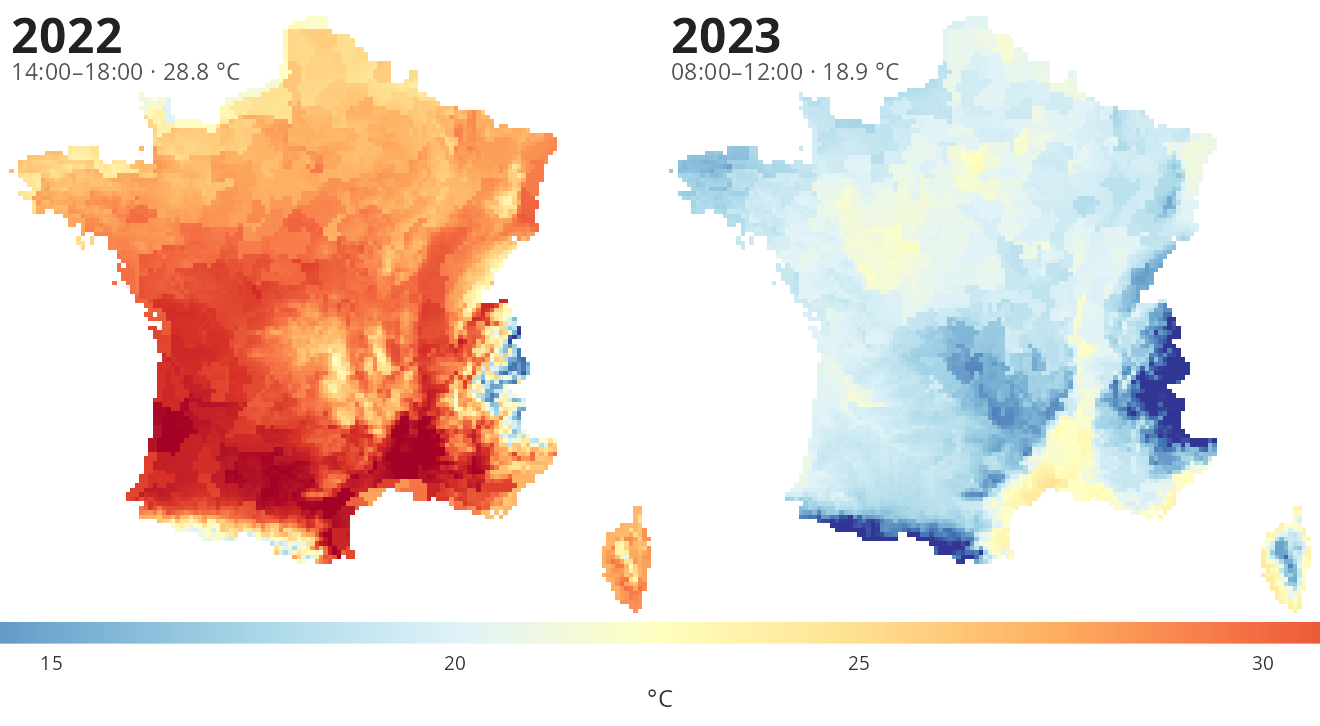
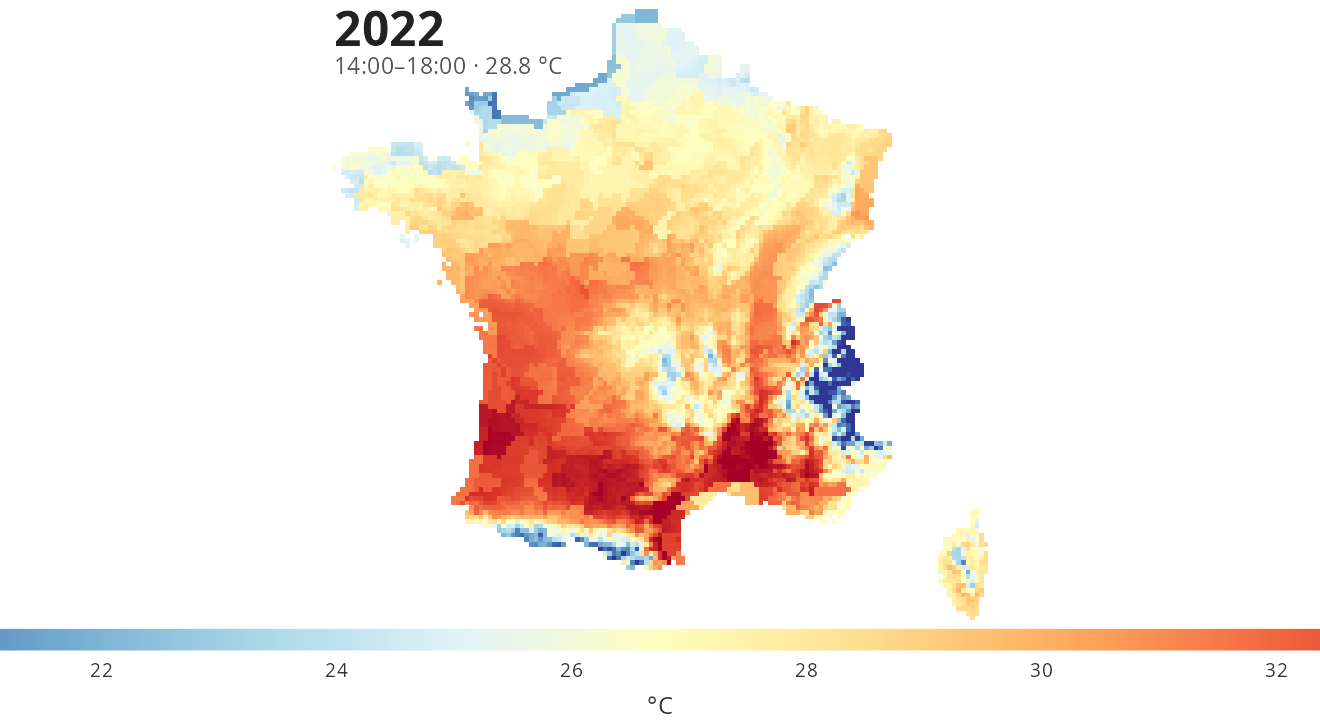
Project heat wave

diff --git a/_projects/fr/heat_waves.md b/_projects/fr/heat_waves.md
@@ -1,0 +1,18 @@
+---
+page_id: heat_waves
+layout: page
+title: Trop chaud pour réussir ? Vagues de chaleur, résultats aux examens et accès à l'enseignement supérieur
+description: >
+    Co-autrice : Leïla Costil
+img: /assets/img/heat_waves.png
+importance: 1
+category: éducation
+related_publications: false
+lang: fr
+---
+ 
+Le changement climatique accroît l'exposition des élèves aux fortes chaleurs, avec des variations et inégalités entre territoires. Par ailleurs, les épisodes de forte chaleur surviennent plus généralement en juin, sur la période traditionnelle des examens du baccalauréat. En Chine et aux États-Unis, des recherches ont souligné une diminution de la réussite des élèves d'environ 5 à 6 % d'écart-type pour une hausse d'un écart-type de la température pendant les examens. Nous cherchons à quantifier ces effets en France, et à explorer leur traduction dans les chances d'admission dans l'enseignement supérieur, étant donné les disparités de conditions météorologiques de passation à travers l'hexagone.
+
+La France constitue un terrain de recherche particulièrement propice. Tout d'abord, les lycées sont (très) rarement climatisés, dans des bâtiments peu résilients aux vagues de chaleur. Une conséquence : la chaleur extérieure se traduit directement en température élevée dans les salles d'examen. Par ailleurs, une unique épreuve du baccalauréat occupe une place prépondérante dans les dossiers Parcoursup : l'épreuve anticipée de français, qui a lieu en juin, à la fin de la classe de première. Cet examen nous permet de quantifier l'impact d'une journée de forte chaleur sur les notes, et par ce biais sur les décisions d'admission. 
+
+Enfin, l'épreuve écrite se déroule à une date unique, à la même heure sur tout le territoire : au sein d'une session, toute la variation de l'exposition est géographique, et aucune famille, aucun établissement ni aucun candidat ne peut choisir où tombe la chaleur. Pour mesurer l'exposition aux vagues de chaleur, nous avons construit un panel qui rattache chaque lycée à la grille SAFRAN de Météo-France. Ce panel permet de tracer la température et la chaleur humide pendant les heures mêmes de l'épreuve (via une interpolation des températures).

diff --git a/_projects/en/heat_waves.md b/_projects/en/heat_waves.md
@@ -1,0 +1,18 @@
+---
+page_id: heat_waves
+layout: page
+title: Too Hot to Succeed? Heat Waves, Exam Performance, and Noisy Signals in College Admissions
+description: >
+    Co-author: Leïla Costil
+img: /assets/img/heat_waves.png
+importance: 1
+category: education
+related_publications: false
+lang: en
+---
+ 
+Climate change is increasing students' exposure to extreme heat. Moreover, these extreme temperatures are likely to become frequent in June, a period over which the French end-of-high-school exam (*Baccalauréat*) takes place. Studies in China and the United States show that a one standard deviation increase in temperature (around 2°C) during exams lowers test scores by about 5 to 6% of a standard deviation. We ask whether heat on the exam day lowers students' achievement in France and, more importantly, whether this impacts who gets admitted to which higher education programme, as well as academic success in post-secondary education.
+
+France is a particularly well-suited setting. High schools are barely ever air-conditioned and buildings tend to be old, making room temperature close to outdoor temperature. We will leverage the timing of the written French exam, typically taking place around June 15th at the end of grade 11, to assess the impact of heat waves on student admissions into post-secondary education, acknowledging this exam is an important part of applications files on Parcoursup (the centralised platform for admission to higher education). We will also leverage spatial differences in chronic high-temperature exposure to estimate the long-term effect of a hotter climate.
+
+To measure exposure, we built a panel linking every high-school to Météo-France's SAFRAN grid (8 km, daily since 1958, hourly-interpolation on exam days). This lets us measure temperature and humid heat during the actual exam hours, and to distinguish heat during the exam from heat during the night before.
